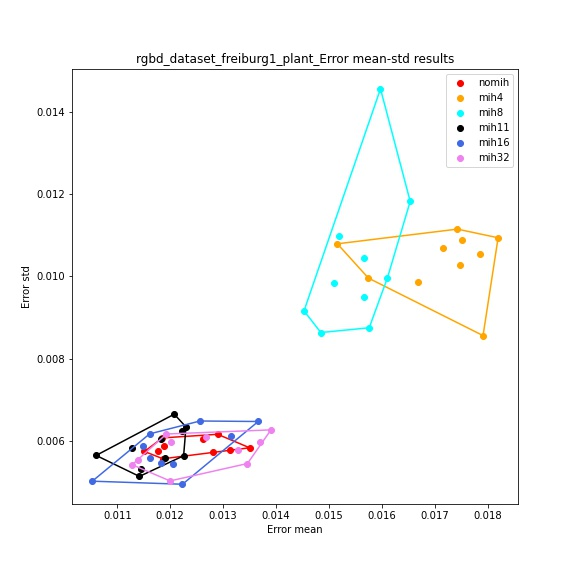
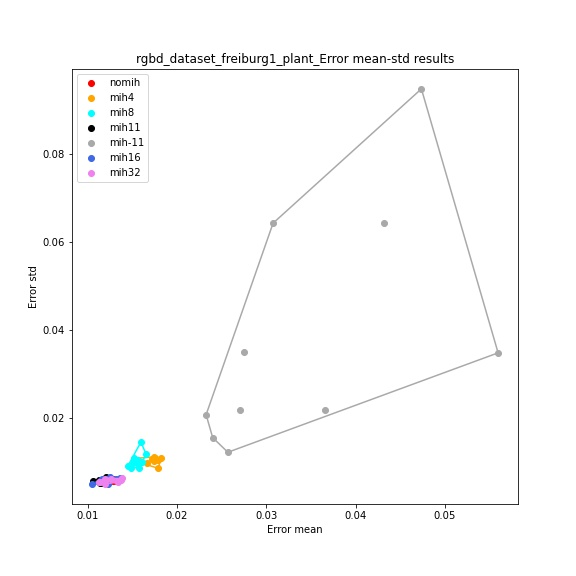
add mih comparison mode

diff --git a/src/Optimizer.cc b/src/Optimizer.cc
@@ -499,6 +499,9 @@ void Optimizer::LocalBundleAdjustment(KeyFrame *pKF, bool* pbStopFlag, Map* pMap
         // 看起来这个不分mono和stereo
 
         int multi_count = MUL_INDEX_HASH_COUNT;//set the seperate count of MIH. Can be [4,8,16,32], while the hash key to be [64,32,16,8] bits
+        if(multi_count < 0)
+            multi_count = -multi_count;
+
         vector<MapPoint*> sub_lLocalMapPoints;
         // unordered_map <cv::Mat ,  vector <MapPoint*>> test_MIH;
         // vector <unordered_map <cv::Mat ,  vector <MapPoint*>>> MIH(multi_count, test_MIH);
@@ -522,7 +525,7 @@ void Optimizer::LocalBundleAdjustment(KeyFrame *pKF, bool* pbStopFlag, Map* pMap
             int32_t  des_bitsize = Descriptor_now.cols;
             int32_t  block_size = des_bitsize / multi_count;
             
-            if(multi_count == 11)
+            if(multi_count == 11 || multi_count == -11)
                 block_size = 3;
             // add to MIH with different part of descriptor
             for(int i = 0;i < multi_count;i ++)
@@ -576,7 +579,7 @@ void Optimizer::LocalBundleAdjustment(KeyFrame *pKF, bool* pbStopFlag, Map* pMap
             int32_t  des_bitsize = Descriptor_now.cols;
             int32_t  block_size = des_bitsize / multi_count;
 
-            if(multi_count == 11)
+            if(multi_count == 11 || multi_count == -11)
                 block_size = 3;
 
             // get the vector of MapPoint pointers and sum them up
@@ -602,12 +605,22 @@ void Optimizer::LocalBundleAdjustment(KeyFrame *pKF, bool* pbStopFlag, Map* pMap
         }
         write_file_mih(lLocalMapPoints.size(),points_MIH_select.size());
         
-        // remove the original map points
-        lLocalMapPoints.clear();
-        lLocalMapPoints.assign(points_MIH_select.begin(),points_MIH_select.end());
          //cout << "Original Local Map Points count" << lLocalMapPoints.size() << endl;
          //cout << "MIH selected Local Map Points count" << points_MIH_select.size() <<endl;
-         
+         //cout << multi_count << "!!?" << endl;
+         if(MUL_INDEX_HASH_COUNT < 0)
+         {
+             // only use the tail points for comparison
+             lLocalMapPoints.reverse();
+             lLocalMapPoints.resize(points_MIH_select.size());
+             //cout << "Original Local Map Points count" << lLocalMapPoints.size() << endl;
+         }
+         else
+         {
+            // remove the original map points
+            lLocalMapPoints.clear();
+            lLocalMapPoints.assign(points_MIH_select.begin(),points_MIH_select.end());
+         }
     }
         step_mih2_time = clock();
     

diff --git a/README.md b/README.md
@@ -149,6 +149,8 @@ code github : https://github.com/wangshizhang/ORB_SLAM2_mod
 	- 1、特征点数量的限制取决于当前keyframe的特征点数量，而不是hash table size，这一点已做过验证，发现哪怕分为32段最细，一个hash table里也就10+的数量，远远达不到受限的程度。
 	- 2、增加了11段的处理，效果显著。（不整除，最后tail只有16位，其他的是32位）
 	- 3、由于orb以char型储存限制，没有做char的8位打碎处理，但结论也是可以预见的。即，匹配的段数越多，每一段越细，越接近原始orb，速度越慢。其中在8-16段中，会存在比较好的不显著降低精度，同时提升速度的结果。
+- 2020.6.24 更新
+	- 对于11段，设置了对照组，对于筛选出的点，在原始点中选取数量相当的点作为对照（不是随机的，为了方便，直接截取list末尾的点）。结果可以看出，原始筛出的点对于精度有更好的保持。而任意截取，系统的精度会明显下降（更容易跑飞，鲁棒性下降）。
 # ORB-SLAM2
 **Authors:** [Raul Mur-Artal](http://webdiis.unizar.es/~raulmur/), [Juan D. Tardos](http://webdiis.unizar.es/~jdtardos/), [J. M. M. Montiel](http://webdiis.unizar.es/~josemari/) and [Dorian Galvez-Lopez](http://doriangalvez.com/) ([DBoW2](https://github.com/dorian3d/DBoW2))
 
